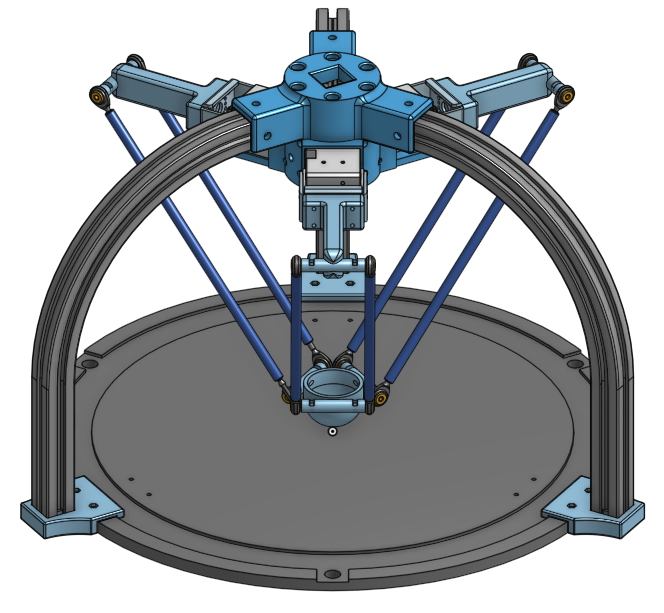
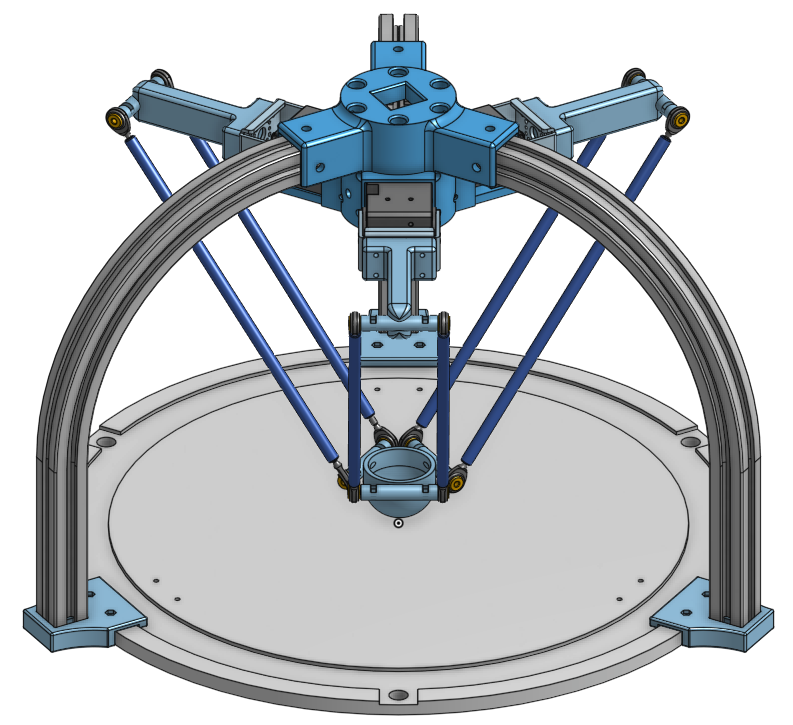
OMFriends additional info added

diff --git a/docs/en/platform/openmanipulator.md b/docs/en/platform/openmanipulator.md
@@ -1707,9 +1707,10 @@ Open processing source code file (`open_manipulator_processing` → `Planar` →
 ## [OpenManipulator Delta](#openmanipulator-delta)
 
 ![](/assets/images/platform/openmanipulator/OpenManipulator_Delta.png)
-<!-- 
 
 ### Specification
+
+![](/assets/images/platform/openmanipulator/OpenManipulator_Delta_Capture.png)
 
 | Items                    | Unit    |                                         |
 | -------------------      | ------- | --------------------------------------- |
@@ -1723,7 +1724,7 @@ Open processing source code file (`open_manipulator_processing` → `Planar` →
 
 ### Dimension
 
-  - **Comming Soon**
+![](/assets/images/platform/openmanipulator/OpenManipulator_Delta_spec.png)
 
 ### Hardware Setup
 
@@ -1731,22 +1732,17 @@ Open processing source code file (`open_manipulator_processing` → `Planar` →
 
 |              | Part Name | Quantity | Link
 |---------     |---------- |---------   |
-|**Chassis Parts** |BASE FRAME|1|[Download Link](https://www.thingiverse.com/thing:3069581)|
-|.                 |PEN HOLDER|1|[Download Link](https://www.thingiverse.com/thing:3069581)|
-|.                 |FRM BASE|1|[Download Link](https://www.thingiverse.com/thing:3069581)|
-|.                 |TAP HOLDER|1|[Download Link](https://www.thingiverse.com/thing:3069581)|
-|.                 |FR12_H101_K|4|[Shop Link](http://www.robotis-shop-en.com/?act=shop_en.goods_view&GS=2768&GC=GD0B0001)|
-|.                 |FR12_S102_K|3|[Shop Link](http://www.robotis-shop-en.com/?act=shop_en.goods_view&GS=2766&GC=GD0B0001)|
-|.                 |HN12_I101|4|[Shop Link](http://www.robotis-shop-en.com/?act=shop_en.goods_view&GS=2759&GC=GD0B0006)|
-|**Actuators**     |Dynamixel XM430-W350-T|4|[Shop Link](http://www.robotis-shop-en.com/?act=shop_en.goods_view&GS=2923&GC=GD080101)|
-|**Cables**        |CABLE_3P_130MM|2|[Shop Link](http://www.robotis-shop-en.com/?act=shop_en.goods_view&GS=2347&GC=GD0B0105&page=2)|
-|.                 |CABLE_3P_240MM|1|[Shop Link](http://www.robotis-shop-en.com/?act=shop_en.goods_view&GS=2926&GC=GD0B0105&page=3)|
-|**Miscellaneous** |WB_M2X03|24|[Shop Link](https://us.misumi-ec.com/vona2/detail/221000551286/?Inch=0&CategorySpec=00000070644%3A%3A2%0900000070373%3A%3A3)|
-|.                 |WB_M2_5X4|14|[Shop Link](https://us.misumi-ec.com/vona2/detail/221000551286/?Inch=0&CategorySpec=00000070644%3A%3A2.5%0900000070373%3A%3A8)|
-|.                 |WB_M2_5X06|8|[Shop Link](https://us.misumi-ec.com/vona2/detail/221000551286/?Inch=0&CategorySpec=00000070644%3A%3A2.5%0900000070373%3A%3A3%2C6)|
-|.                 |WB_M2_5X12|2|[Shop Link](https://us.misumi-ec.com/vona2/detail/221000551286/?Inch=0&CategorySpec=00000070644%3A%3A2.5%0900000070373%3A%3A8)|
+|**Chassis Parts** |BASE FRAME|1|[Download Link](https://www.thingiverse.com/thing:3217182)|
+|.                 |Delta_centre|1|[Download Link](https://www.thingiverse.com/thing:3217182)|
+|.                 |Delta_gripper|1|[Download Link](https://www.thingiverse.com/thing:3217182)|
+|.                 |link|3|[Download Link](https://www.thingiverse.com/thing:3217182)|
+|.                 |HN12_I101|3|[Shop Link](http://www.robotis-shop-en.com/?act=shop_en.goods_view&GS=2759&GC=GD0B0006)|
+|**Actuators**     |Dynamixel XM430-W350-T|3|[Shop Link](http://www.robotis-shop-en.com/?act=shop_en.goods_view&GS=2923&GC=GD080101)|
+|**Cables**        |CABLE_3P_240MM|3|[Shop Link](http://www.robotis-shop-en.com/?act=shop_en.goods_view&GS=2926&GC=GD0B0105&page=3)|
+|**Miscellaneous** |WB_M2_5X12|24|[Shop Link](http://www.robotis-shop-en.com/?act=shop_en.goods_view&GS=2923&GC=GD080101http://www.robotis-shop-en.com/?act=shop_en.goods_view&GS=2923&GC=GD080101)|
 |.                 |FHS_M2_5X14|12|[Shop Link](https://us.misumi-ec.com/vona2/detail/221000547315/?Inch=0&CategorySpec=00000071822%3A%3A2.5%0900000071552%3)|
-|.                 |NUT_M2_5(0.45P)|8|[Shop Link](https://us.misumi-ec.com/vona2/detail/110300250540/?Inch=0&CategorySpec=00000070281%3A%3A2.5)|
+|.                 |NSFMR6-24|6|[Shop Link](https://jp.misumi-ec.com/vona2/detail/110300086920/?HissuCode=NSFMR6-26&PNSearch=NSFMR6-26&KWSearch=NSFMR6-26&searchFlow=results2products)|
+|.                 |Rod End Bearing(D 3mm)|12|[Shop Link](https://us.misumi-ec.com/vona2/detail/110300371730/?HissuCode=PHSOM3&PNSearch=PHSOM3&KWSearch=phsom3&searchFlow=results2type)|
 
 #### 3D Printed Parts
 
@@ -1756,18 +1752,20 @@ CAD Files ([Onshape](https://cad.onshape.com/documents/cc6fdde79eccc8c21ff6048b/
 
 ### Software Setup
 
+Download the [`OpenCR`](https://github.com/ROBOTIS-GIT/OpenCR) and [`open_manipulator_processing`](https://github.com/ROBOTIS-GIT/open_manipulator_processing) libraries. 
+
 #### OpenCR
 
 Go to `Examples` → `OpenManipulator` → `example` → `Arduino` → `Delta` → `open_manipulator_delta` on Arduino IDE for OpenCR.
 
 #### Processing
 
-Open processing source code file (`OpenCR`>`arduino`>`opencr_arduino`>`opencr`>`libraries`>`OpenManipulator`>`example`>`Processing`>`Delta`>`Delta.pde`) on Processing IDE, and Run it.
+Open processing source code file (`open_manipulator_processing` → `Delta` → `Delta.pde`) on Processing IDE.
 
 **NOTE**: Upload **OpenCR example source code** to OpenCR before run **processing source code**.
 {: .notice--info}
 
-### Video -->
+### Video
 
   - **Comming Soon**
 
@@ -1775,8 +1773,9 @@ Open processing source code file (`OpenCR`>`arduino`>`opencr_arduino`>`opencr`>`
 
 ![](/assets/images/platform/openmanipulator/OpenManipulator_Stewart.png)
 
-<!-- 
 ### Specification
+
+![](/assets/images/platform/openmanipulator/OpenManipulator_Stewart_Capture.png)
 
 | Items                    | Unit    |                                         |
 | -------------------      | ------- | --------------------------------------- |
@@ -1832,17 +1831,19 @@ Go to `Examples` → `OpenManipulator` → `example` → `Arduino` → `Stewart`
 Open processing source code file (`OpenCR`>`arduino`>`opencr_arduino`>`opencr`>`libraries`>`OpenManipulator`>`example`>`Processing`>`Stewart`>`Stewart.pde`) on Processing IDE, and Run it.
 
 **NOTE**: Upload **OpenCR example source code** to OpenCR before run **processing source code**.
-{: .notice--info} -->
+{: .notice--info}
 
-<!-- ### Video -->
+### Video
 
   - **Comming Soon**
 
 ## [OpenManipulator Linear](#openmanipulator-linear)
 
 ![](/assets/images/platform/openmanipulator/OpenManipulator_Linear.png)
-<!-- 
+
 ### Specification
+
+![](/assets/images/platform/openmanipulator/OpenManipulator_Linear_Capture.png)
 
 | Items                    | Unit    |                                         |
 | -------------------      | ------- | --------------------------------------- |
@@ -1900,7 +1901,7 @@ Open processing source code file (`OpenCR`>`arduino`>`opencr_arduino`>`opencr`>`
 **NOTE**: Upload **OpenCR example source code** to OpenCR before run **processing source code**.
 {: .notice--info}
 
-### Video -->
+### Video
 
   - **Comming Soon**
 
